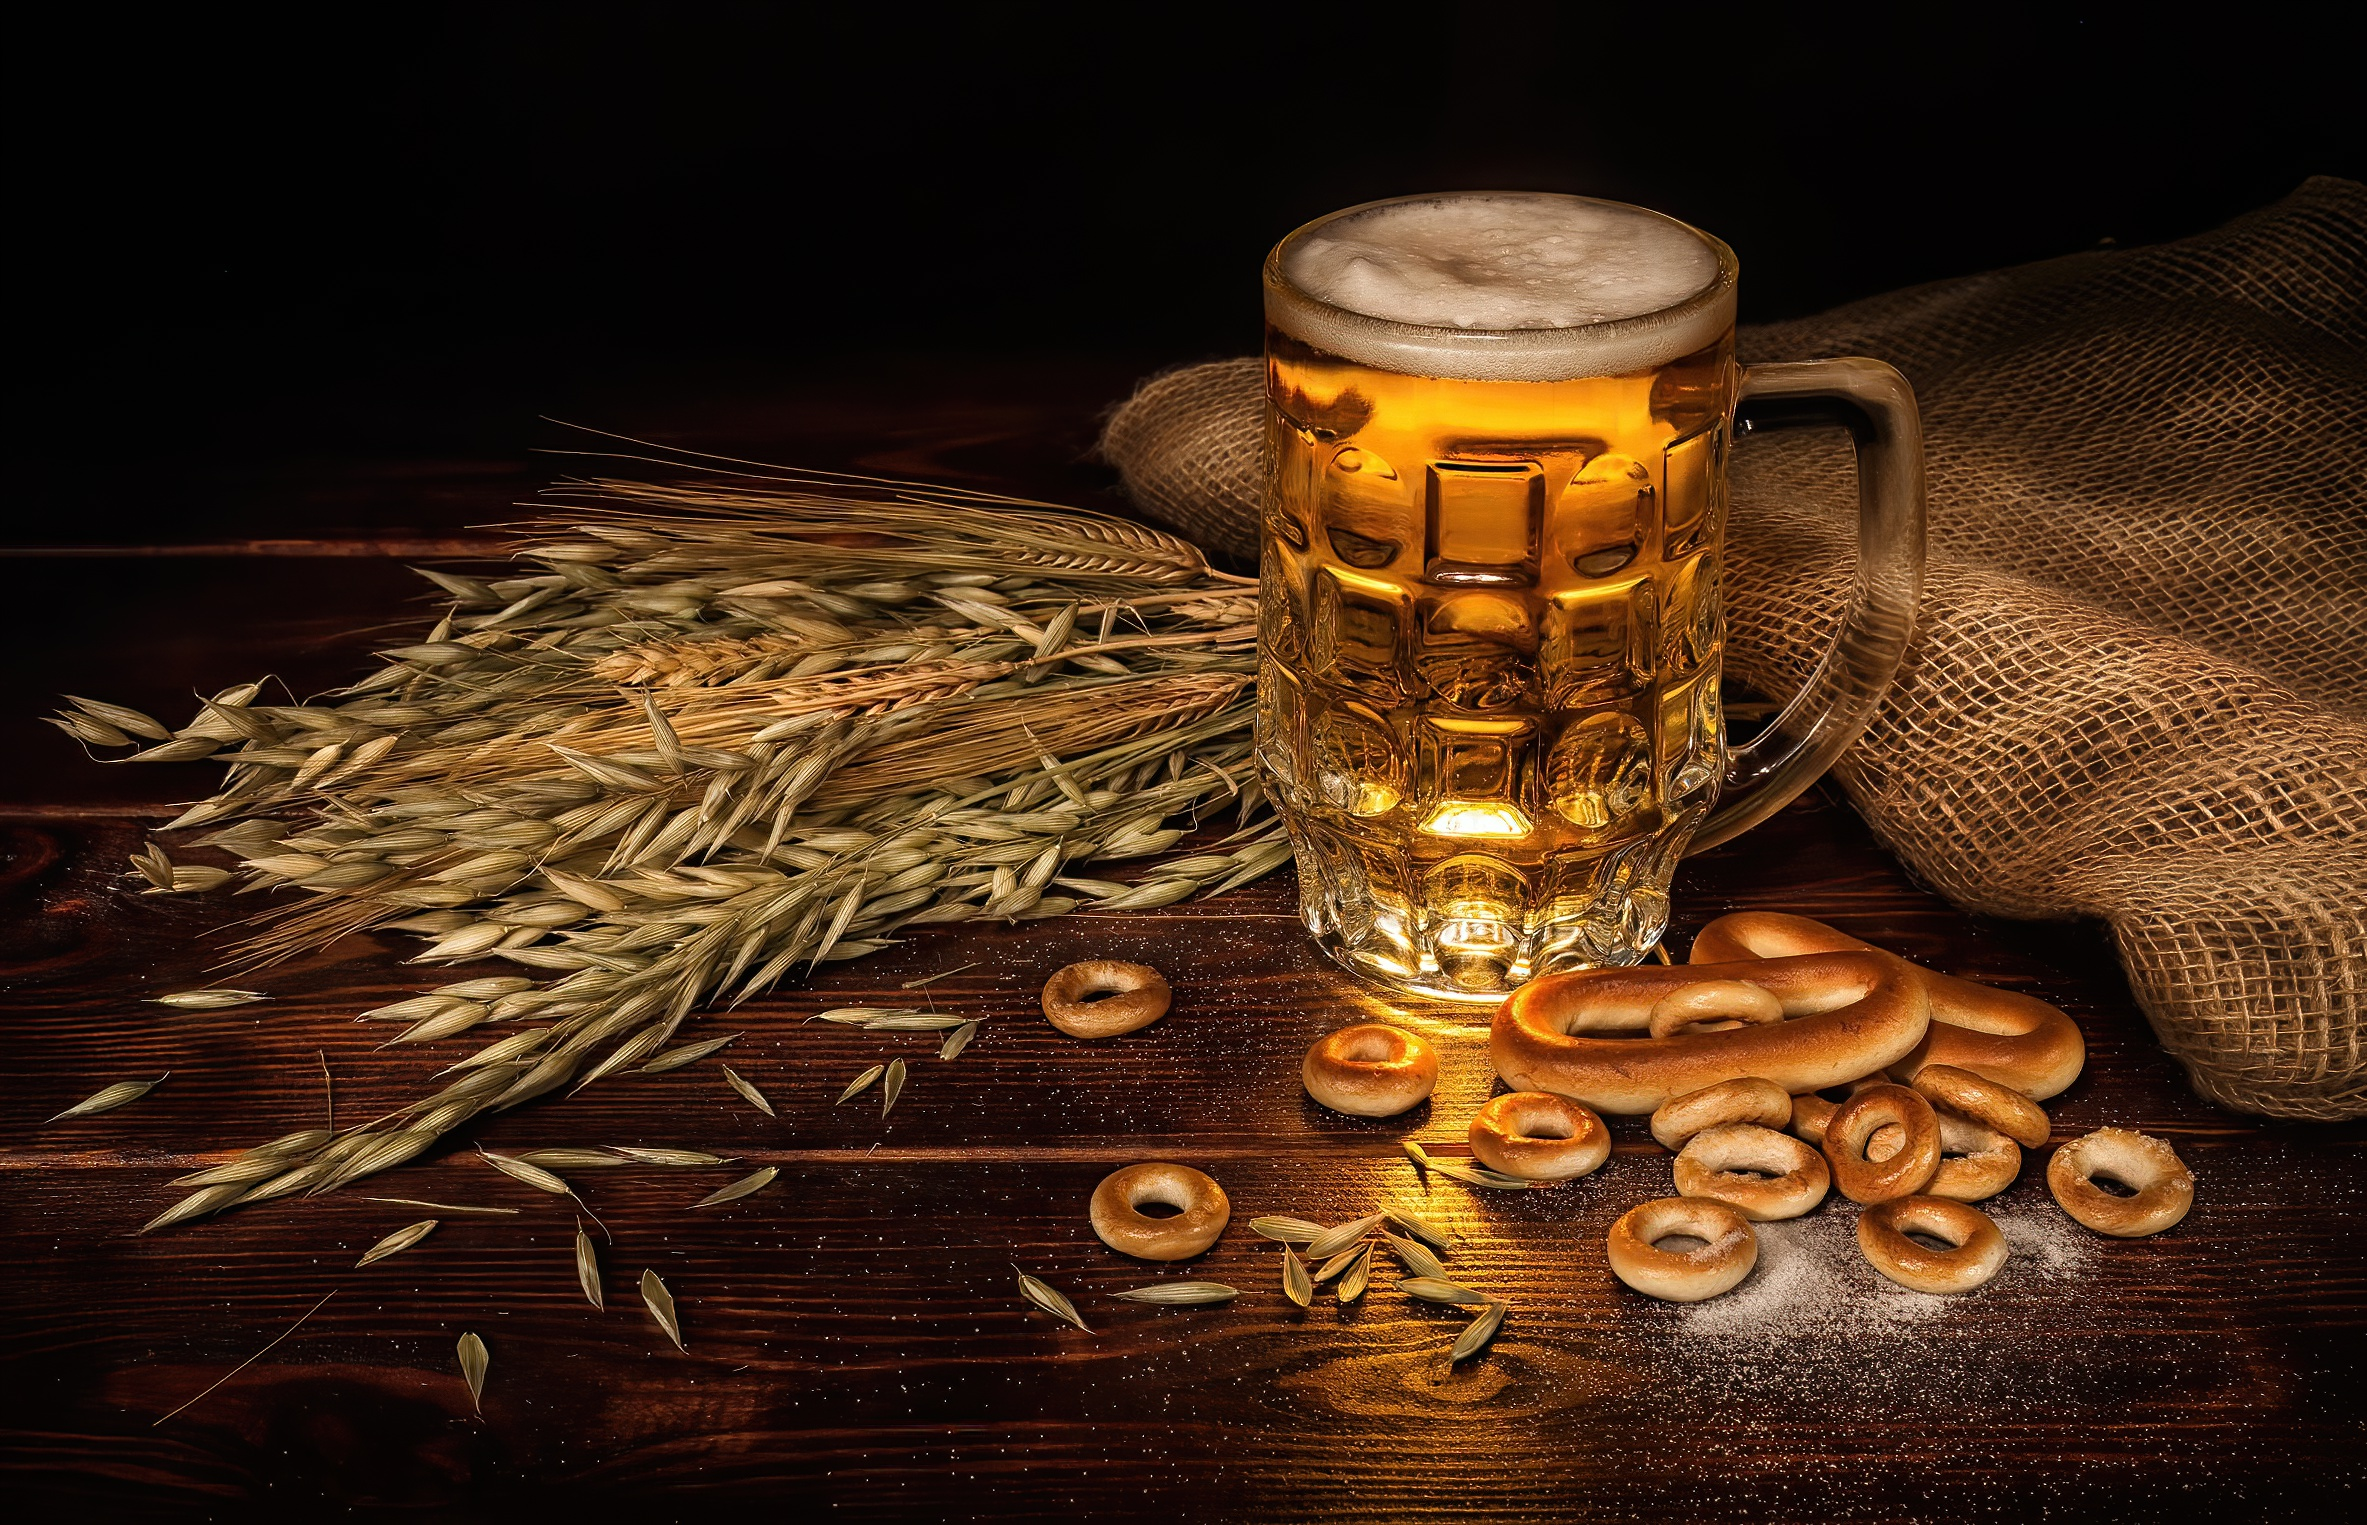
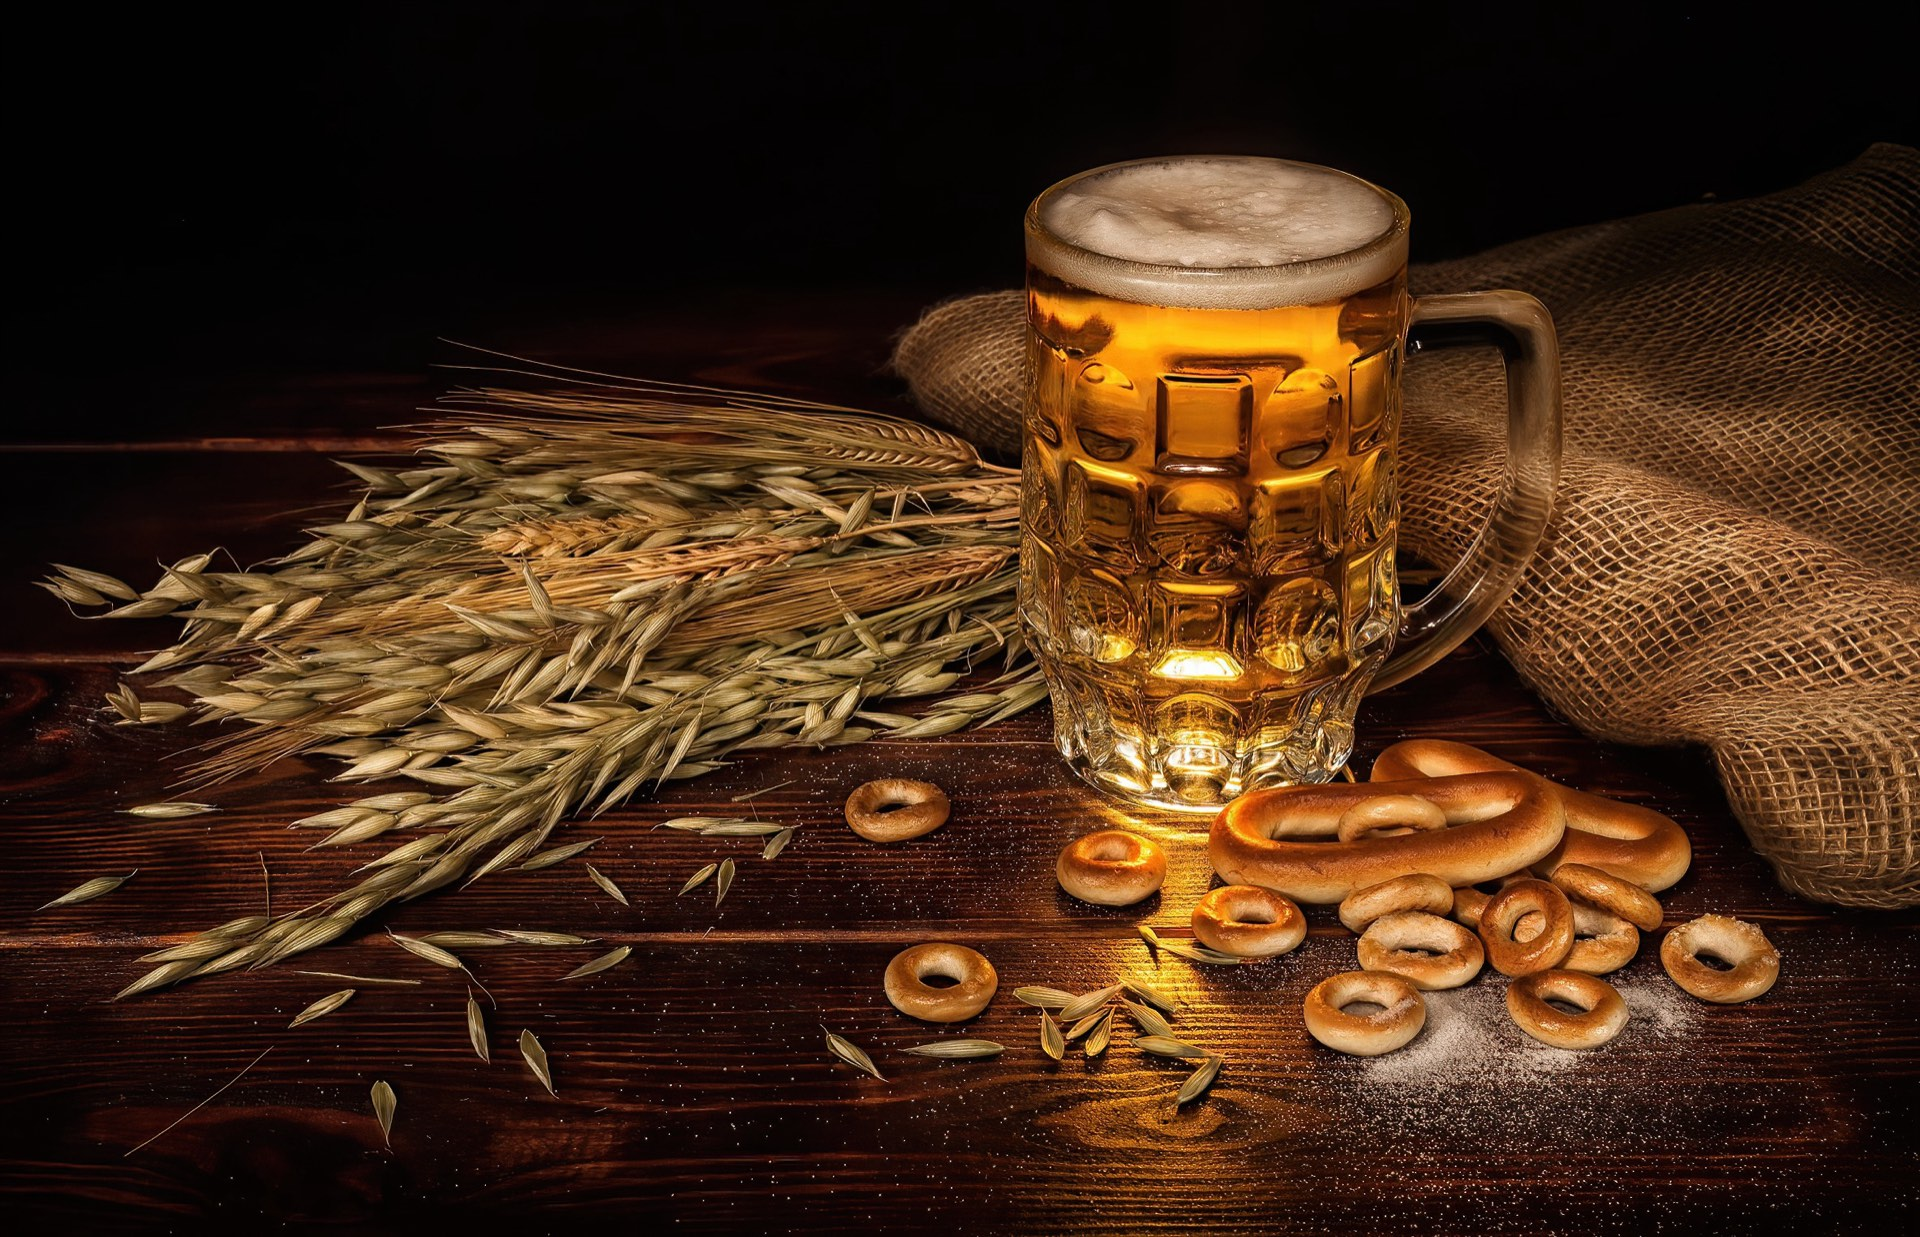
Compress oversized map and hero images
map.png (3274x876, 1.3MB) and sor.jpg (2367x1525, 1.6MB) were far
larger than anything these full-bleed sections ever display. Resized
and re-encoded (map.png -> map.jpg) to cut combined weight from ~2.9MB
to ~830KB with no visible quality loss.

diff --git a/src/app/pages/home/home.html b/src/app/pages/home/home.html
@@ -7,7 +7,7 @@
     <app-deals></app-deals>
 
     <section class="map-cta reveal" appReveal aria-label="Üzlet helye a térképen">
-      <img class="map-image" src="map.png" alt="Colibri Italdiszkont helye a térképen" />
+      <img class="map-image" src="map.jpg" alt="Colibri Italdiszkont helye a térképen" />
 
       <div class="map-overlay">
         <a